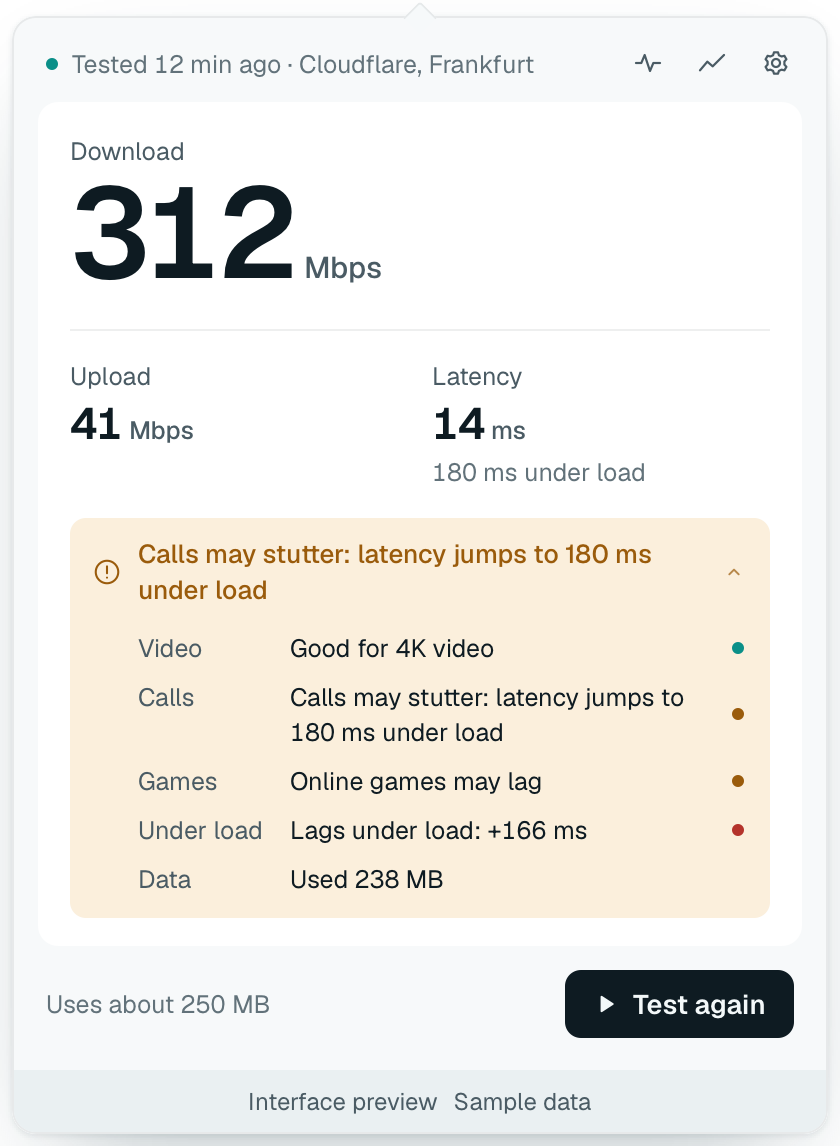
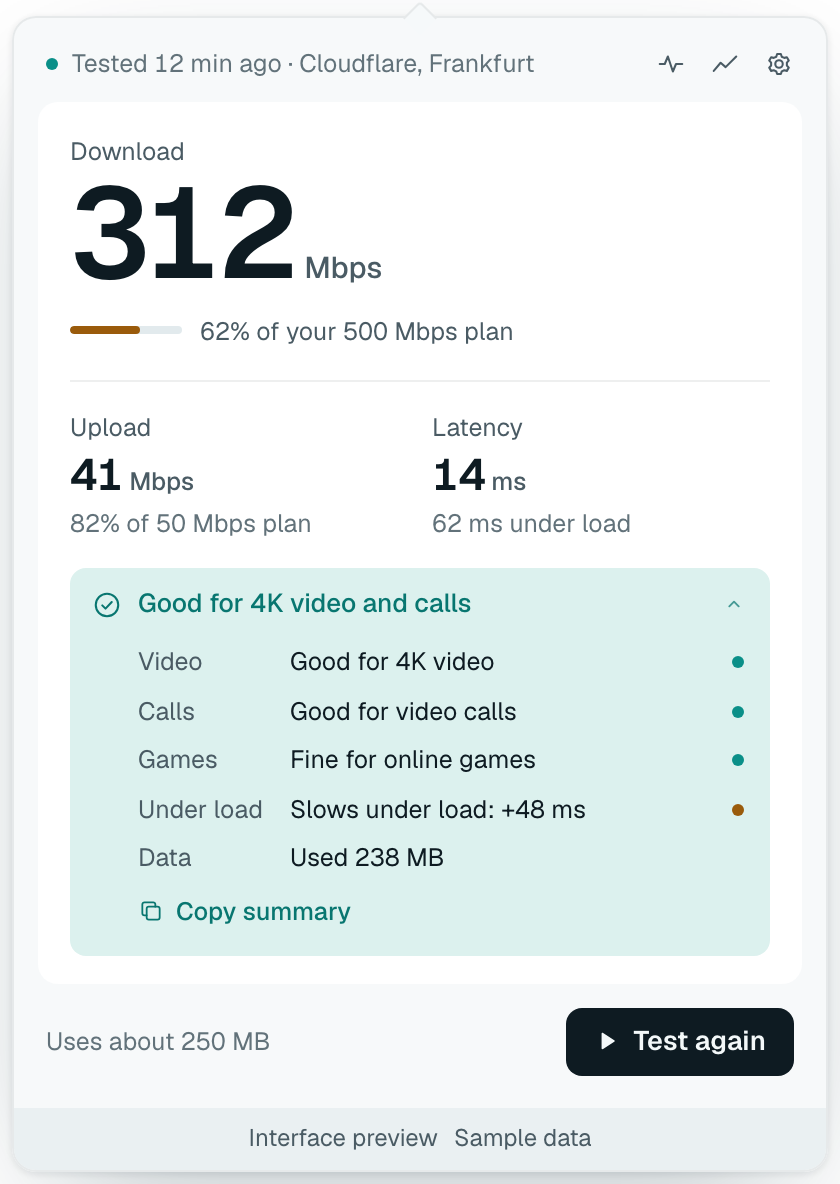
chore(release): prepare v0.4.0
Bumps the version to 0.4.0, adds the changelog for the plan comparison,
the provider report and scheduled tests, points the README downloads at
v0.4.0, refreshes the README screenshots that now show the plan share,
the Report button and the new Settings sections, and records the three
branches in the plan.

diff --git a/docs/plan.md b/docs/plan.md
@@ -140,10 +140,21 @@ Written 2026-10-23 from [research.md](research.md), [method.md](method.md) and t
   Verify: Rust tests green.
 - [x] **C.6 Release v0.3.0.** Published 2026-10-25 02:31 UTC; evidence in `docs/verification.md`.
 
+## Plan, report, schedule (v0.4.0) ⛳
+
+Built as three branches, each its own pull request, merged into `main`: #10 plan, #13 report (replaces #11, closed when its base merged), #12 schedule.
+
+- [x] **P.1 Speed you pay for.** Settings → Your plan; share under the result, in Upload, History, tray tooltip and Copy summary. Bands 80 / 50 %, "At least" when capped.
+  Verify: Rust and TS tests on bands and validation; e2e edits the plan and sees the share change.
+- [x] **P.2 PDF provider report.** 30 days, medians against the plan, findings, chart, every test; Helvetica via pdf-writer, nothing embedded.
+  Verify: Rust tests on summary, findings, pagination and text encoding; sample rendered and looked at (2 A4 pages for 45 entries).
+- [x] **P.3 Scheduled tests.** Off / 6 h / 12 h / daily; 2 min settle, never metered, Low Power Mode or Battery Saver, never confirms; monthly data shown.
+  Verify: scheduler state-machine tests (settle, sleep, by-hand tests, cancel); Windows build compiles `GetSystemPowerStatus` in CI.
+  Findings: the popover's fit height could wobble a pixel (rounded offsetHeight sums); now measured with fractional rects, 96/96 repeated fit runs pass.
+- [ ] **P.4 Release v0.4.0.**
+
 ## Phase 5 — Later
 
-- [ ] PDF provider report (tests, outages, against the speed you pay for).
-- [ ] "Speed you pay for" setting and comparison.
 - [ ] Per-network history keyed by a salted hash of the gateway MAC, user-named.
 - [ ] Scheduled full tests (opt-in, never metered).
 - [ ] Global shortcut; `weir --json`.

diff --git a/README.md b/README.md
@@ -23,12 +23,12 @@ Interface preview with sample data.
 
 ## Install
 
-Download **v0.3.0** from [GitHub Releases](https://github.com/Abulkosim/weir/releases/latest). Step-by-step guide with uninstall: [docs/install.md](docs/install.md).
+Download **v0.4.0** from [GitHub Releases](https://github.com/Abulkosim/weir/releases/latest). Step-by-step guide with uninstall: [docs/install.md](docs/install.md).
 
 | Platform | Download |
 | --- | --- |
-| macOS 12+ · Apple Silicon and Intel | [Universal DMG](https://github.com/Abulkosim/weir/releases/download/v0.3.0/Weir_0.3.0_universal.dmg) |
-| Windows x64 | [Setup EXE](https://github.com/Abulkosim/weir/releases/download/v0.3.0/Weir_0.3.0_x64-setup.exe) · [MSI](https://github.com/Abulkosim/weir/releases/download/v0.3.0/Weir_0.3.0_x64_en-US.msi) |
+| macOS 12+ · Apple Silicon and Intel | [Universal DMG](https://github.com/Abulkosim/weir/releases/download/v0.4.0/Weir_0.4.0_universal.dmg) |
+| Windows x64 | [Setup EXE](https://github.com/Abulkosim/weir/releases/download/v0.4.0/Weir_0.4.0_x64-setup.exe) · [MSI](https://github.com/Abulkosim/weir/releases/download/v0.4.0/Weir_0.4.0_x64_en-US.msi) |
 
 Builds are not signed with an Apple Developer ID or a Windows publisher certificate, so the first launch shows a warning. Updates are signed and verified in the app.
 

diff --git a/changelogs/v0.4.0.md b/changelogs/v0.4.0.md
@@ -1,0 +1,8 @@
+# v0.4.0
+
+2026-10-26 · [Download](https://github.com/Abulkosim/weir/releases/tag/v0.4.0)
+
+- Enter the speeds you pay for in Settings → Your plan, and each result says how close you get, for example "62% of your 500 Mbps plan". History and the tray tooltip show it too.
+- Report in History saves a PDF of the last 30 days for your provider: medians against your plan, how often it fell under half, the slowest hours, outages, a chart and every test. Also in Settings → History → Save PDF.
+- Scheduled tests, off by default: Settings → Scheduled tests runs a full test every 6 or 12 hours or once a day. It shows the data it will use each month and never runs on a hotspot, a metered connection, Low Data Mode or Low Power Mode. Scheduled results have a clock icon in History.
+- The popover no longer shifts by a pixel after resizing to fit its content.

diff --git a/CHANGELOG.md b/CHANGELOG.md
@@ -2,6 +2,7 @@
 
 | Version | Date (UTC) | Changes |
 | --- | --- | --- |
+| [v0.4.0](changelogs/v0.4.0.md) | 2026-10-26 | Plan comparison, PDF report for the provider, scheduled tests. |
 | [v0.3.0](changelogs/v0.3.0.md) | 2026-10-25 | Tray menu actions, shortcuts, copy summary, lighter tray redraws. |
 | [v0.2.0](changelogs/v0.2.0.md) | 2026-10-24 | Check connection, opt-in outage watching, slow hours. |
 | [v0.1.0](changelogs/v0.1.0.md) | 2026-10-24 | First release: one-click speed test in the tray, plain-language results, history and CSV export. |
